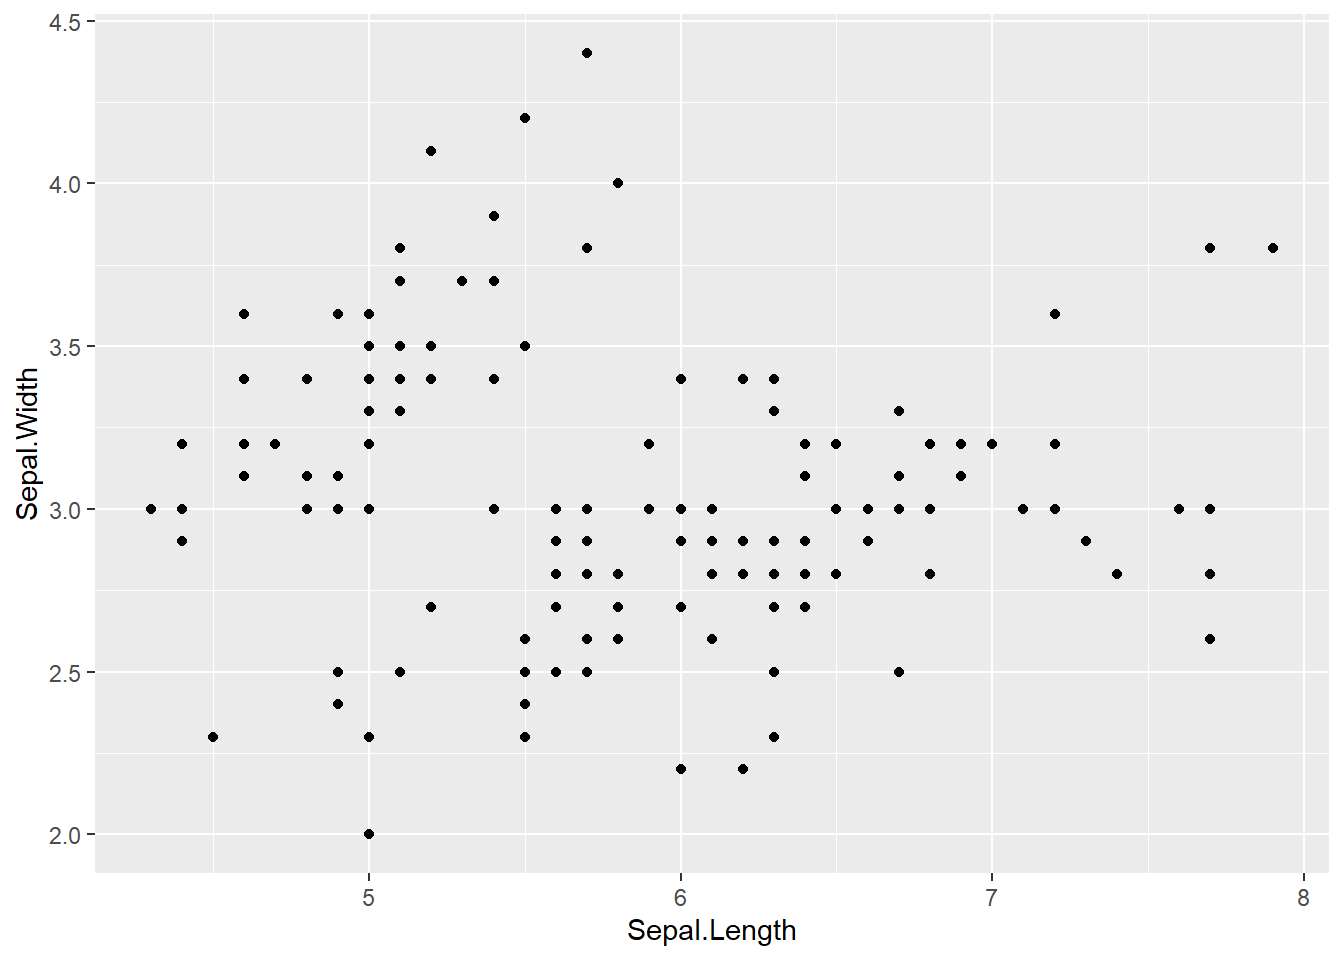
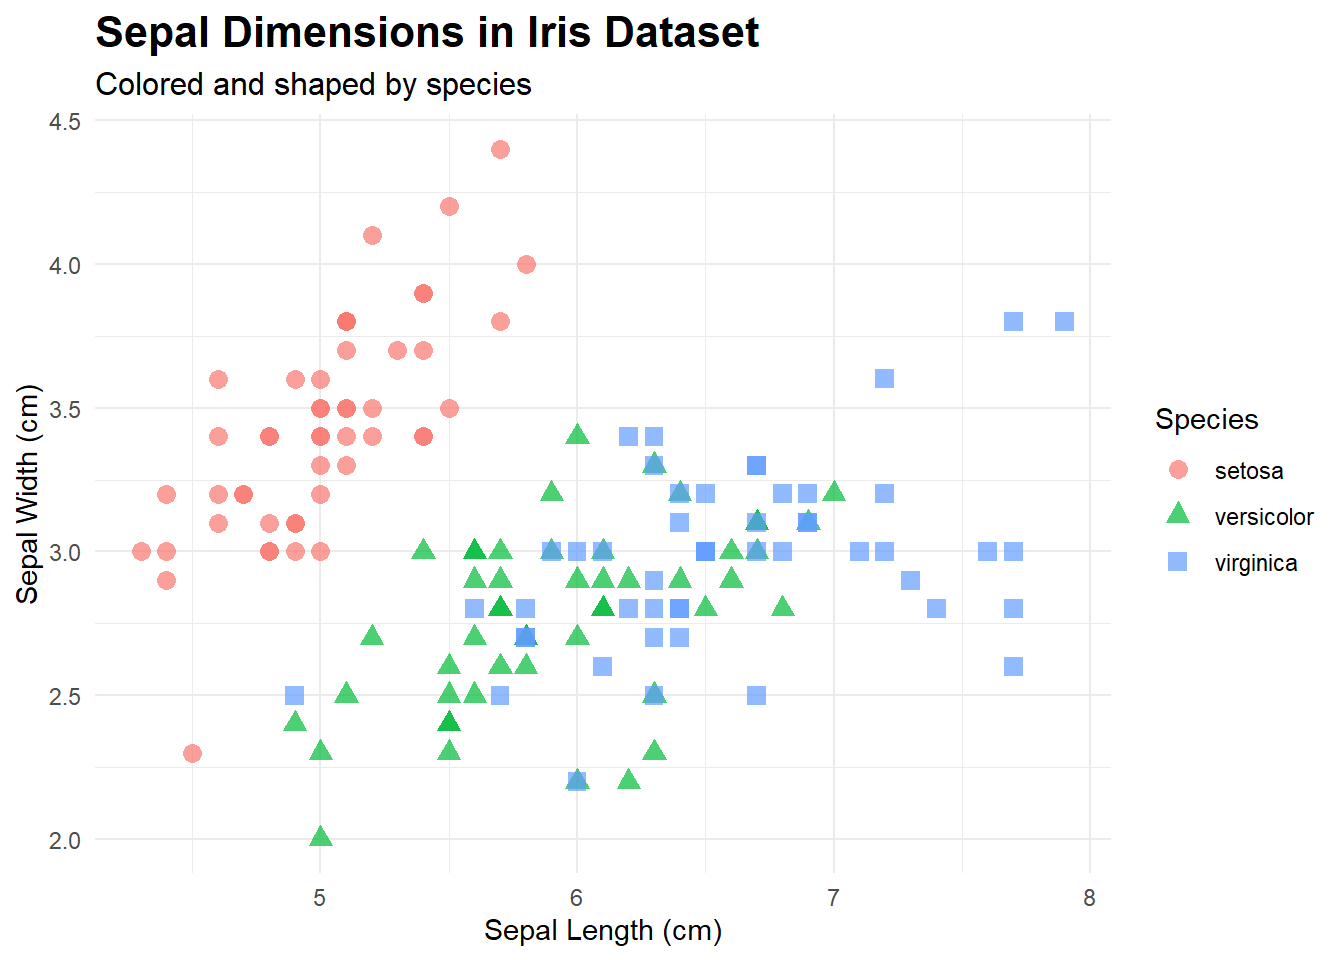
render update

diff --git a/docs/index.html b/docs/index.html
@@ -7,7 +7,7 @@
 <meta name="viewport" content="width=device-width, initial-scale=1.0, user-scalable=yes">
 
 <meta name="author" content="Puyuan Tian (pt2654)">
-<meta name="dcterms.date" content="2025-04-17">
+<meta name="dcterms.date" content="2025-04-22">
 
 <title>Comparison of LIME and SHAP Interpretation Methods</title>
 <style>
@@ -210,7 +210,7 @@ pre > code.sourceCode > span > a:first-child::before { text-decoration: underlin
     <div>
     <div class="quarto-title-meta-heading">Published</div>
     <div class="quarto-title-meta-contents">
-      <p class="date">April 17, 2025</p>
+      <p class="date">April 22, 2025</p>
     </div>
   </div>
   
@@ -228,8 +228,23 @@ pre > code.sourceCode > span > a:first-child::before { text-decoration: underlin
 <details class="code-fold">
 <summary>Code</summary>
 <div class="sourceCode cell-code" id="cb1"><pre class="sourceCode r code-with-copy"><code class="sourceCode r"><span id="cb1-1"><a href="#cb1-1" aria-hidden="true" tabindex="-1"></a><span class="fu">library</span>(ggplot2)</span>
-<span id="cb1-2"><a href="#cb1-2" aria-hidden="true" tabindex="-1"></a><span class="fu">ggplot</span>(iris, <span class="fu">aes</span>(Sepal.Length, Sepal.Width))<span class="sc">+</span></span>
-<span id="cb1-3"><a href="#cb1-3" aria-hidden="true" tabindex="-1"></a>  <span class="fu">geom_point</span>()</span></code><button title="Copy to Clipboard" class="code-copy-button"><i class="bi"></i></button></pre></div>
+<span id="cb1-2"><a href="#cb1-2" aria-hidden="true" tabindex="-1"></a></span>
+<span id="cb1-3"><a href="#cb1-3" aria-hidden="true" tabindex="-1"></a><span class="fu">ggplot</span>(iris, <span class="fu">aes</span>(<span class="at">x =</span> Sepal.Length, <span class="at">y =</span> Sepal.Width, <span class="at">color =</span> Species, <span class="at">shape =</span> Species)) <span class="sc">+</span></span>
+<span id="cb1-4"><a href="#cb1-4" aria-hidden="true" tabindex="-1"></a>  <span class="fu">geom_point</span>(<span class="at">size =</span> <span class="dv">3</span>, <span class="at">alpha =</span> <span class="fl">0.7</span>) <span class="sc">+</span></span>
+<span id="cb1-5"><a href="#cb1-5" aria-hidden="true" tabindex="-1"></a>  <span class="fu">labs</span>(</span>
+<span id="cb1-6"><a href="#cb1-6" aria-hidden="true" tabindex="-1"></a>    <span class="at">title =</span> <span class="st">"Sepal Dimensions in Iris Dataset"</span>,</span>
+<span id="cb1-7"><a href="#cb1-7" aria-hidden="true" tabindex="-1"></a>    <span class="at">subtitle =</span> <span class="st">"Colored and shaped by species"</span>,</span>
+<span id="cb1-8"><a href="#cb1-8" aria-hidden="true" tabindex="-1"></a>    <span class="at">x =</span> <span class="st">"Sepal Length (cm)"</span>,</span>
+<span id="cb1-9"><a href="#cb1-9" aria-hidden="true" tabindex="-1"></a>    <span class="at">y =</span> <span class="st">"Sepal Width (cm)"</span>,</span>
+<span id="cb1-10"><a href="#cb1-10" aria-hidden="true" tabindex="-1"></a>    <span class="at">color =</span> <span class="st">"Species"</span>,</span>
+<span id="cb1-11"><a href="#cb1-11" aria-hidden="true" tabindex="-1"></a>    <span class="at">shape =</span> <span class="st">"Species"</span></span>
+<span id="cb1-12"><a href="#cb1-12" aria-hidden="true" tabindex="-1"></a>  ) <span class="sc">+</span></span>
+<span id="cb1-13"><a href="#cb1-13" aria-hidden="true" tabindex="-1"></a>  <span class="fu">theme_minimal</span>() <span class="sc">+</span></span>
+<span id="cb1-14"><a href="#cb1-14" aria-hidden="true" tabindex="-1"></a>  <span class="fu">theme</span>(</span>
+<span id="cb1-15"><a href="#cb1-15" aria-hidden="true" tabindex="-1"></a>    <span class="at">plot.title =</span> <span class="fu">element_text</span>(<span class="at">face =</span> <span class="st">"bold"</span>, <span class="at">size =</span> <span class="dv">16</span>),</span>
+<span id="cb1-16"><a href="#cb1-16" aria-hidden="true" tabindex="-1"></a>    <span class="at">plot.subtitle =</span> <span class="fu">element_text</span>(<span class="at">size =</span> <span class="dv">12</span>),</span>
+<span id="cb1-17"><a href="#cb1-17" aria-hidden="true" tabindex="-1"></a>    <span class="at">legend.position =</span> <span class="st">"right"</span></span>
+<span id="cb1-18"><a href="#cb1-18" aria-hidden="true" tabindex="-1"></a>  )</span></code><button title="Copy to Clipboard" class="code-copy-button"><i class="bi"></i></button></pre></div>
 </details>
 <div class="cell-output-display">
 <div>
